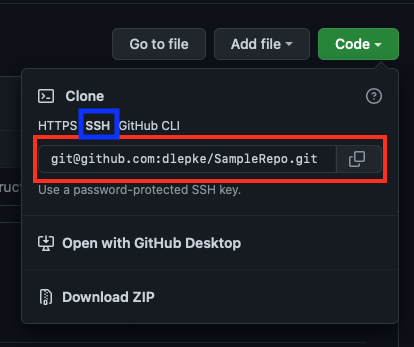
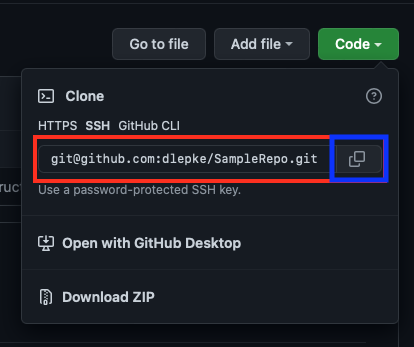
fixed image

Changed region(s): [[0.7826, 0.3746, 0.9565, 0.5476], [0.1739, 0.2882, 0.2899, 0.4035]]

diff --git a/docs/UsingSSHWithGit/forkandclone.md b/docs/UsingSSHWithGit/forkandclone.md
@@ -32,7 +32,7 @@ On the repository page in GitHub, click on the green code button, highlighted be
 
 ![An annotated image showing the SSH Option for cloning a git repository](../../assets/images/ssh-clone.png)
 
-In this window, click the double windowed copy symbol, outlined in green in the picture below. This will copy the link outlined in red to your clipboard.
+In this window, click the double windowed copy symbol, outlined in blue in the picture below. This will copy the link outlined in red to your clipboard.
 
 ![An annotated image of the button used for copying repository links for cloning git repositories](../../assets/images/ssh-get-clone-link.png)
 
